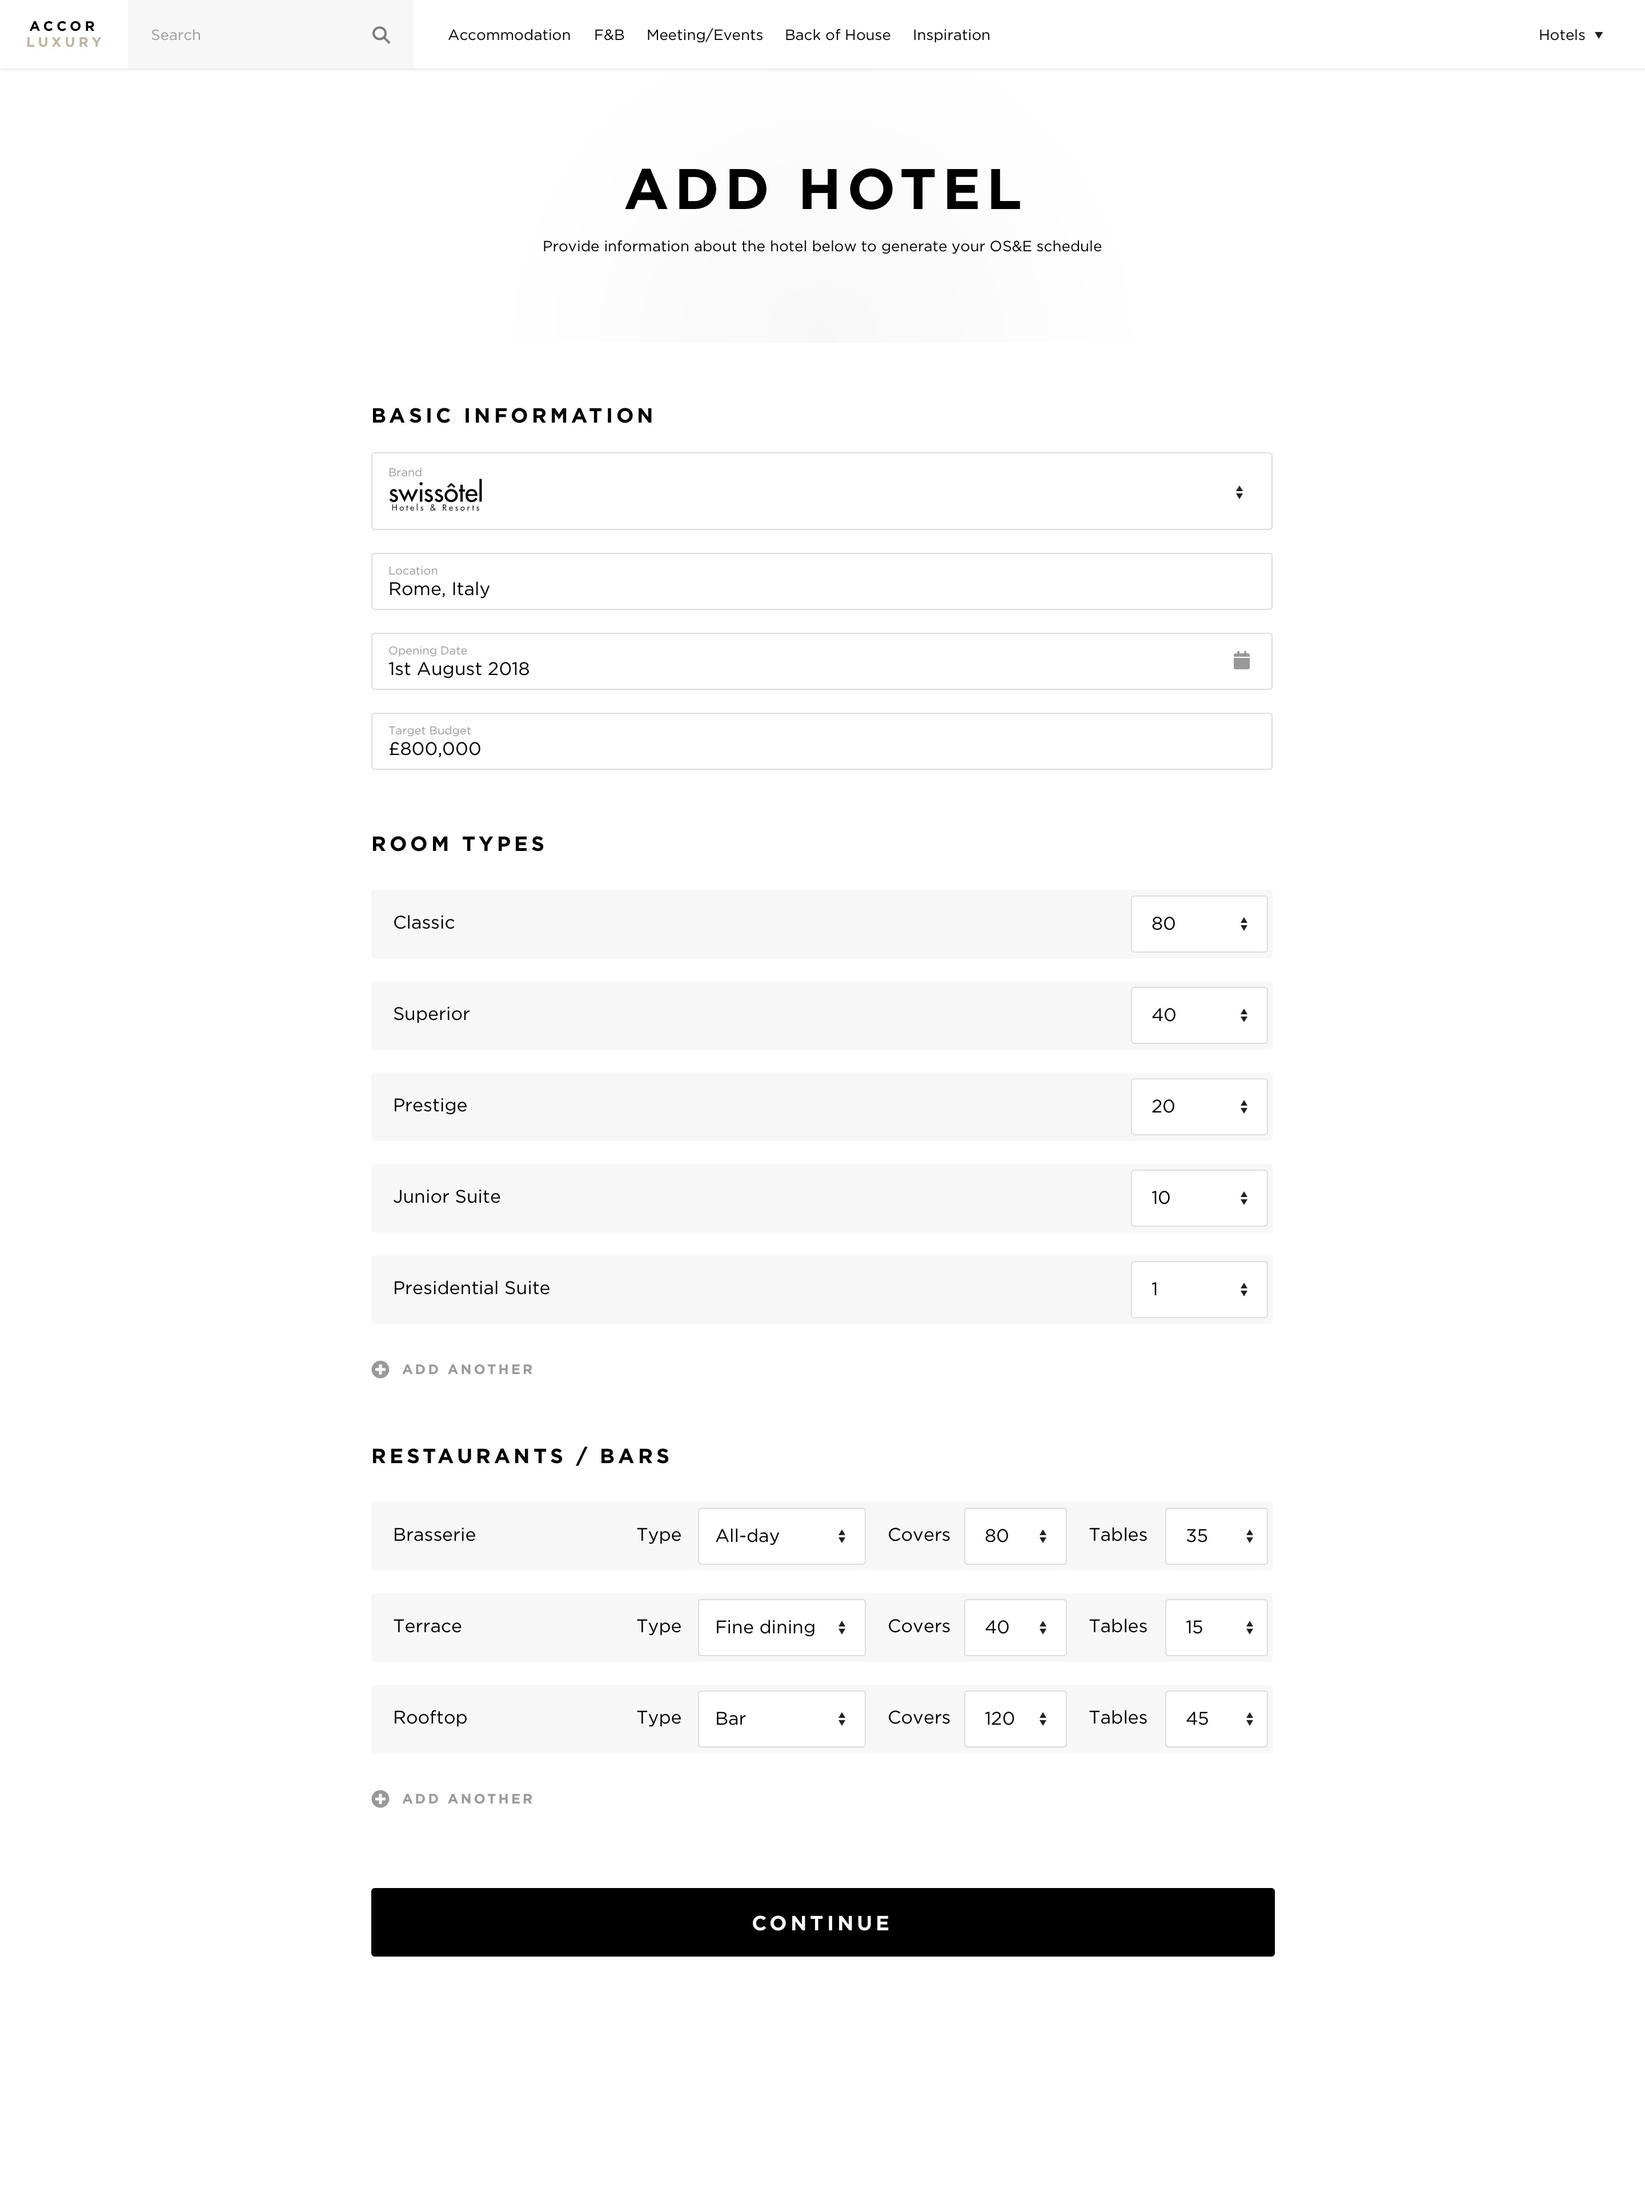
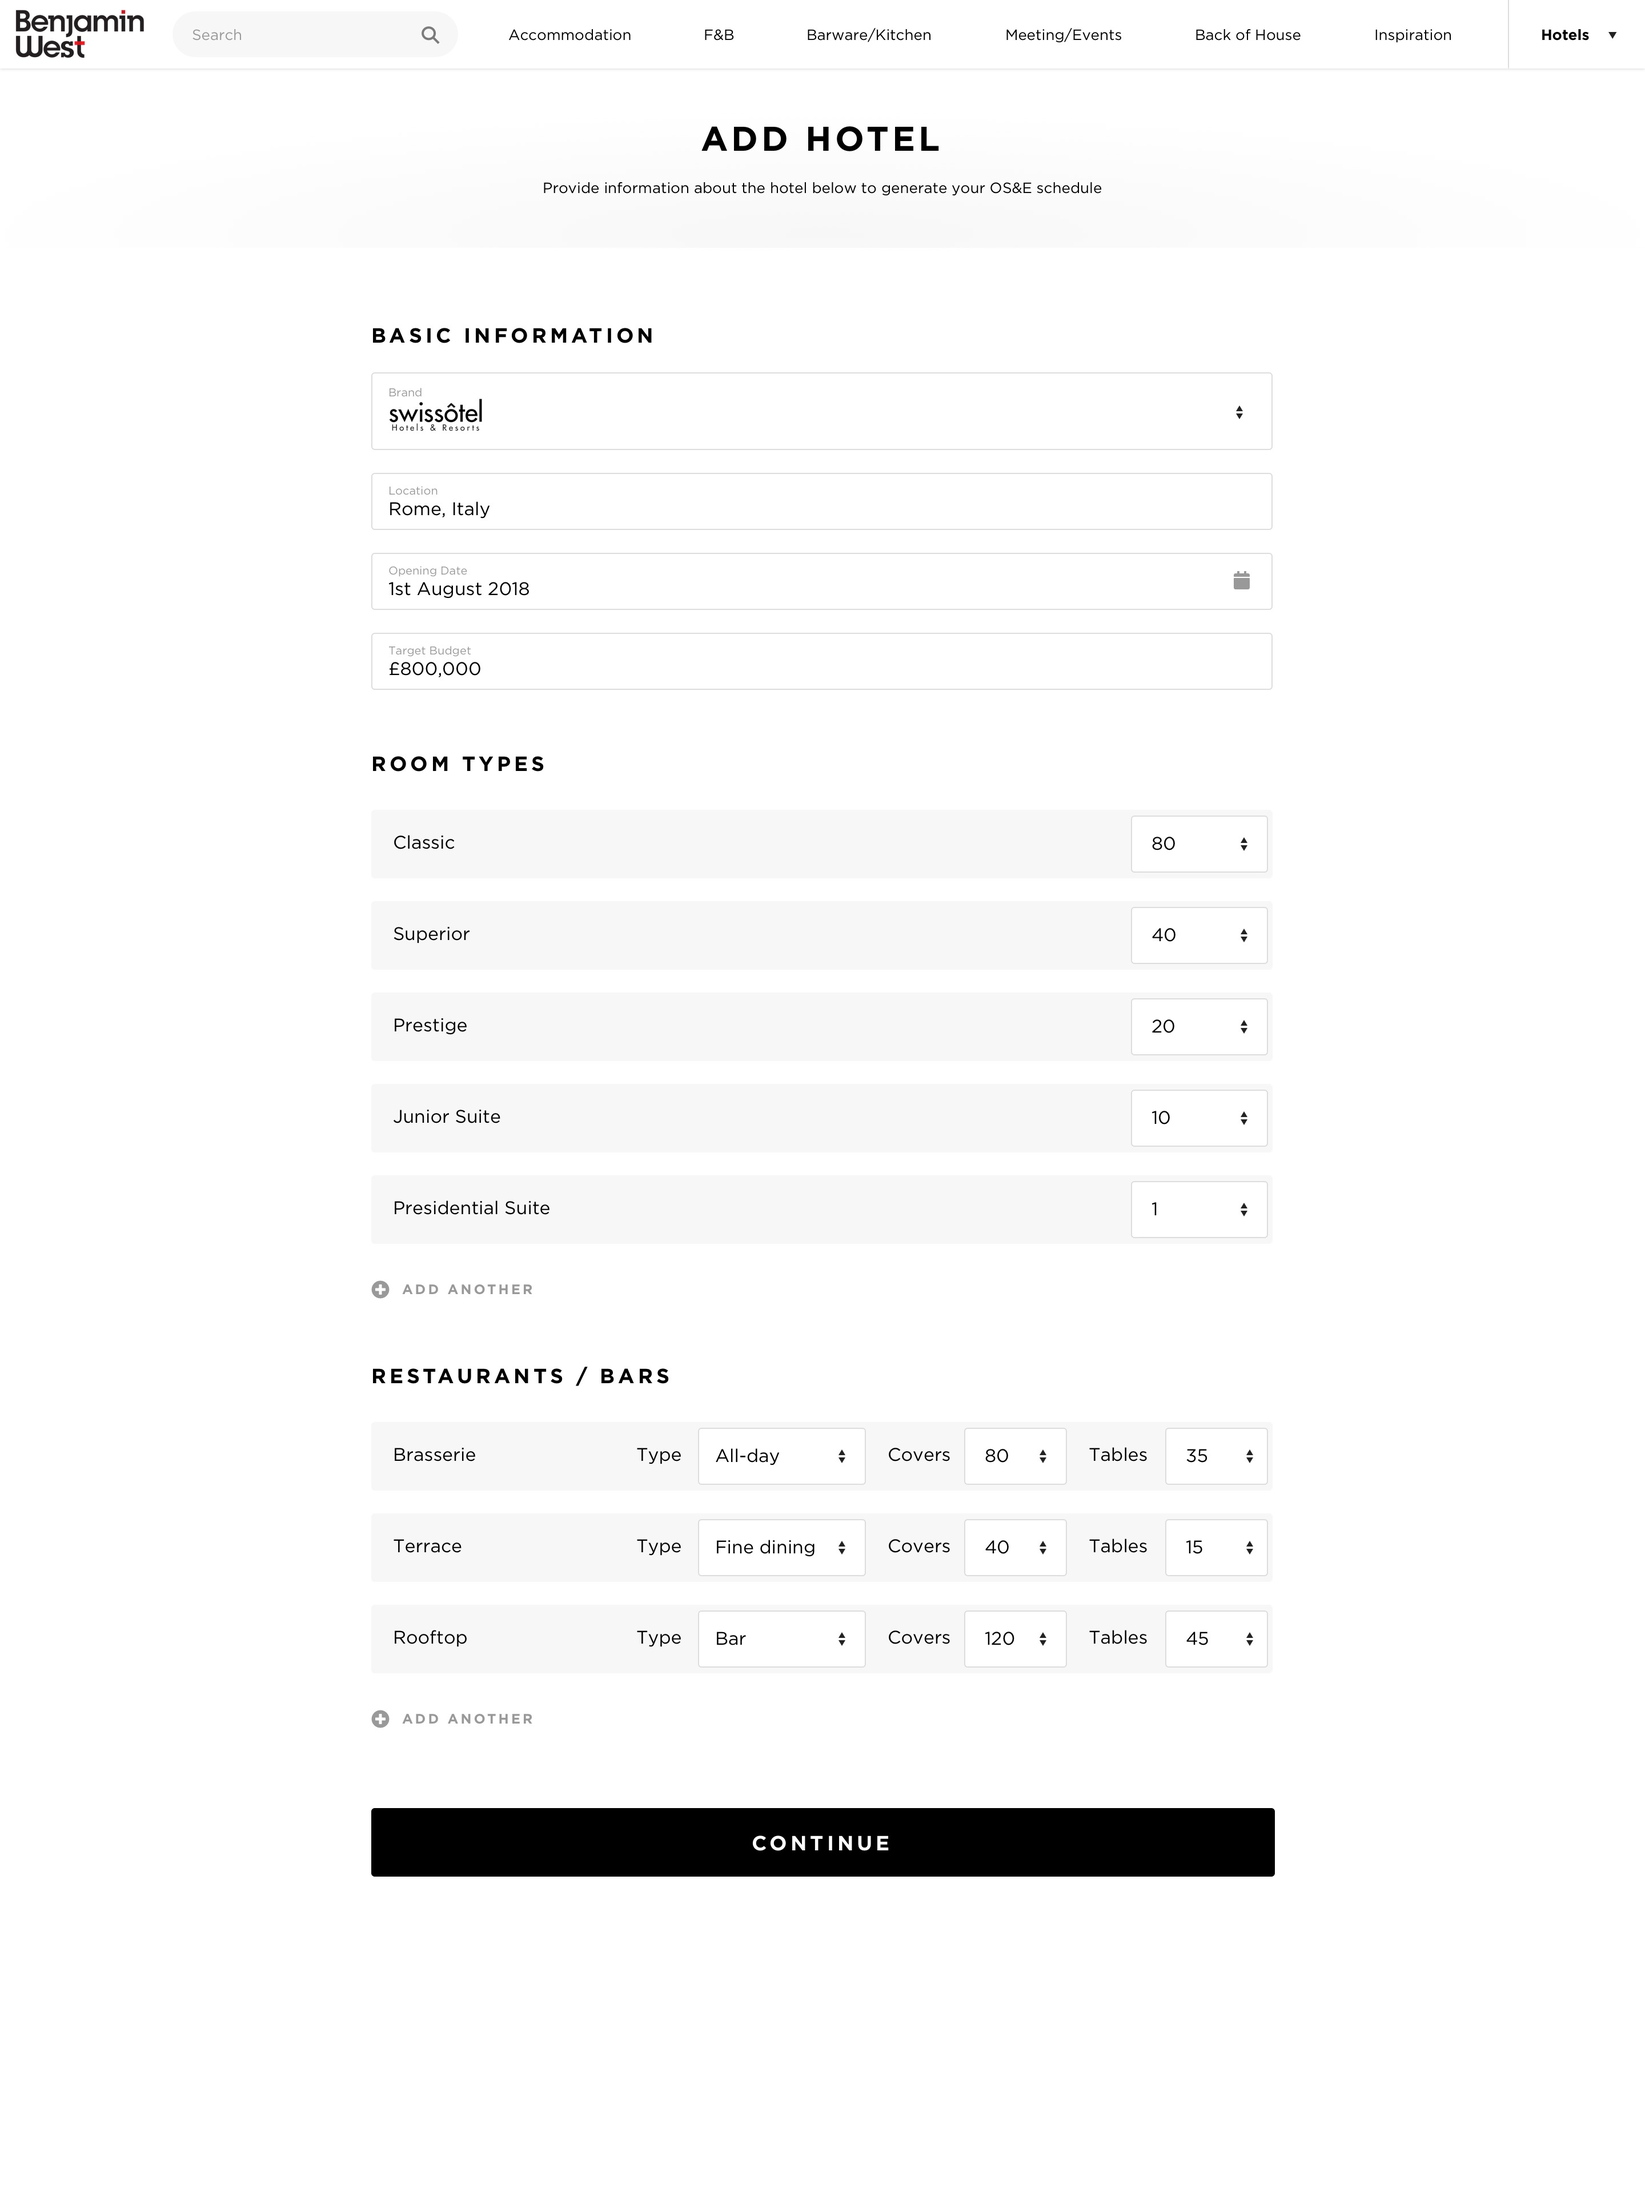
Updates and branding

diff --git a/new/index.html b/new/index.html
@@ -1,6 +1,6 @@
 <html>
    <head>
-      <title>Clippings - Accor Luxury</title>
+      <title>Benjamin West x Clippings</title>
       <style>
          * { margin: 0; padding: 0; }
          body>section { width: 100%; min-width: 1200px; max-width: 1680px; margin: auto; }
